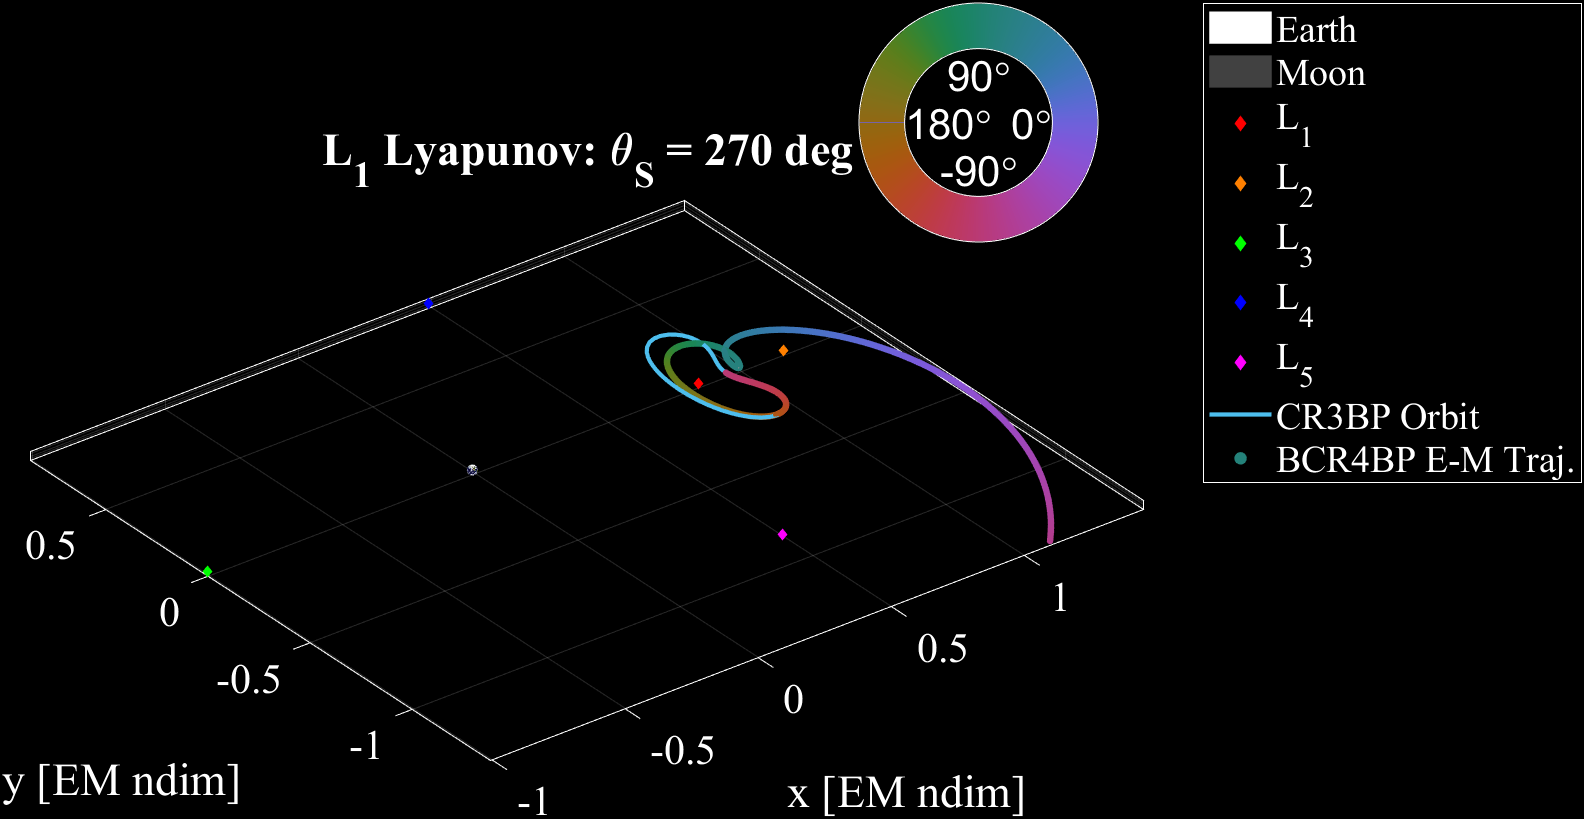
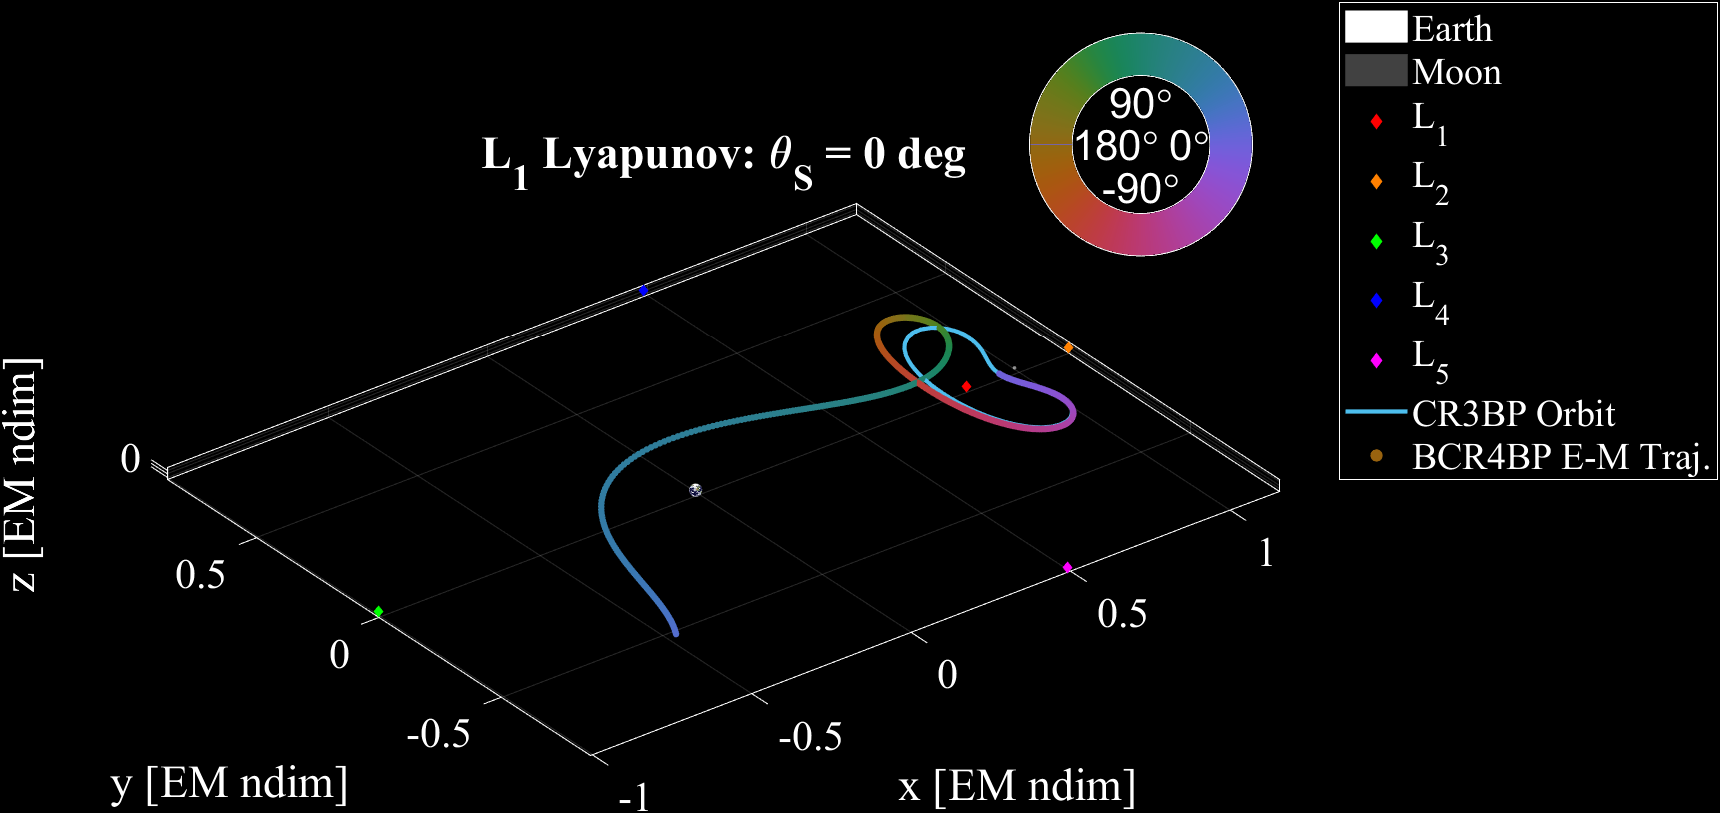
Updated BCR4BPDev

diff --git a/BCR4BPDev.m b/BCR4BPDev.m
@@ -5,84 +5,124 @@
 clear
 load("../PhDScripts/Output/BCR4BPDev.mat")
 
-%% Earth-Moon Data
+%% Body Data
+% Earth
 gmE = 3.9860043543609593E5; % Earth gravitational parameter [km^3/s^2]
 mE = gmE/6.67384E-20; % Earth mass [kg]
 RE = 6.3710083666666660E3; % Earth radius [km]
 
+% Moon
 gmm = 4.9028000661637961E3; % Moon gravitational parameter [km^3/s^2]
 mm = gmm/6.67384E-20; % Moon mass [kg]
 Rm = 1.7374000000000003E3; % Moon radius [km]
 
-mu = gmm/(gmE+gmm); % Mass ratio
-mstar = (gmE+gmm)/6.67384E-20; % Characteristic mass [kg]
-lstar = 3.8474799201129237E5; % Characteristic length [km]
-tstar = sqrt(lstar^3/(gmE+gmm)); % Characteristic time [s]
+% Sun
+gmS = 1.3271244004193930E11; % Sun gravitational parameter [km^3/s^2]
+mS = gmS/6.67384E-20; % Sun mass [kg]
+RS = 6.9600000000000000E5; % Sun radius [km]
+
+% B1
+gmB1 = gmE+gmm; %Barycenter gravitational parameter [km^3/s^2]
+mB1 = gmB1/6.67384E-20; % Barycenter mass [kg]
+
+%% Earth-Moon Data
+mstarEM = (gmE+gmm)/6.67384E-20; % Characteristic mass [kg]
+lstarEM = 3.8474799201129237E5; % Characteristic length [km]
+tstarEM = sqrt(lstarEM^3/(gmE+gmm)); % Characteristic time [s]
+muEM = gmm/(gmE+gmm); % Mass ratio
+
+m_S = mS/mstarEM;
+a_S = 1.4959789401764473E8/lstarEM;
+
+%% Sun-B1 Data
+mstarSB1 = mstarEM*(m_S+1); % Characteristic mass [kg]
+lstarSB1 = lstarEM*a_S; % Characteristic length [km]
+tstarSB1 = sqrt(lstarSB1^3/(gmB1+gmS)); % Characteristic time [s]
+muSB1 = mstarEM/mstarSB1;
+
+a_M = (1-muEM)*lstarEM/lstarSB1;
 
 %% Libration Points
-g1(1) = mu;
+g1 = muEM;
 delg1 = 1;
-i = 0;
 while abs(delg1) > eps
-    f = ((1-mu)/((1-g1(i+1))^2))-(mu/(g1(i+1)^2))-1+mu+g1(i+1);
-    fprime = ((2*(1-mu))/((1-g1(i+1))^3))+((2*mu)/(g1(i+1)^3))+1;
-    g1(i+2) = g1(i+1)-(f/fprime);
-    delg1 = g1(i+2)-g1(i+1);
-    i = i+1;
+    f = ((1-muEM)/((1-g1)^2))-(muEM/(g1^2))-1+muEM+g1;
+    fprime = ((2*(1-muEM))/((1-g1)^3))+((2*muEM)/(g1^3))+1;
+    g1New = g1-(f/fprime);
+    delg1 = g1New-g1;
+    g1 = g1New;
 end
-a1 = 1-mu-g1(end);
+a1EM = 1-muEM-g1;
 
-g2(1) = mu;
+g2 = muEM;
 delg2 = 1;
-i = 0;
 while abs(delg2) > eps
-    f = ((1-mu)/((1+g2(i+1))^2))+(mu/(g2(i+1)^2))-1+mu-g2(i+1);
-    fprime = ((-2*(1-mu))/((1+g2(i+1))^3))-((2*mu)/(g2(i+1)^3))-1;
-    g2(i+2) = g2(i+1)-(f/fprime);
-    delg2 = g2(i+2)-g2(i+1);
-    i = i+1;
+    f = ((1-muEM)/((1+g2)^2))+(muEM/(g2^2))-1+muEM-g2;
+    fprime = ((-2*(1-muEM))/((1+g2)^3))-((2*muEM)/(g2^3))-1;
+    g2New = g2-(f/fprime);
+    delg2 = g2New-g2;
+    g2 = g2New;
 end
-a2 = 1-mu+g2(end);
+a2EM = 1-muEM+g2;
 
-g3(1) = mu;
+g3 = muEM;
 delg3 = 1;
-i = 0;
 while abs(delg3) > eps
-    f = ((1-mu)/(g3(i+1)^2))+(mu/((1+g3(i+1))^2))-mu-g3(i+1);
-    fprime = ((-2*(1-mu))/(g3(i+1)^3))-((2*mu)/((1+g3(i+1))^3))-1;
-    g3(i+2) = g3(i+1)-(f/fprime);
-    delg3 = g3(i+2)-g3(i+1);
-    i = i+1;
+    f = ((1-muEM)/(g3^2))+(muEM/((1+g3)^2))-muEM-g3;
+    fprime = ((-2*(1-muEM))/(g3^3))-((2*muEM)/((1+g3)^3))-1;
+    g3New = g3-(f/fprime);
+    delg3 = g3New-g3;
+    g3 = g3New;
 end
-a3 = -1*mu-g3(end);
+a3EM = -1*muEM-g3;
 
-a45 = 0.5-mu;
+a45EM = 0.5-muEM;
 b4 = sqrt(3)/2;
 b5 = -b4;
 
-%% Plot
+%% Plots
 fig1 = figure("Position", [200 100 1200 750]);
-Earth = plot3DBody("Earth", RE/lstar, [-mu, 0, 0]);
+Earth = plot3DBody("Earth", RE/lstarEM, [-muEM, 0, 0]);
 set(Earth, 'DisplayName', "Earth")
 hold on
-Moon = plot3DBody("Moon", Rm/lstar, [1-mu, 0, 0]);
+Moon = plot3DBody("Moon", Rm/lstarEM, [1-muEM, 0, 0]);
 set(Moon, 'DisplayName', "Moon")
-scatter3(a1, 0, 0, 20, 'r', 'filled', 'd', 'DisplayName', "L_{1}")
-scatter3(a2, 0, 0, 20, [1 0.5 0], 'filled', 'd', 'DisplayName', "L_{2}")
-scatter3(a3, 0, 0, 20, 'g', 'filled', 'd', 'DisplayName', "L_{3}")
-scatter3(a45, b4, 0, 20, 'b', 'filled', 'd', 'DisplayName', "L_{4}")
-scatter3(a45, b5, 0, 20, [1 0 1], 'filled', 'd', 'DisplayName', "L_{5}")
-plot3(trajCR3BP.x, trajCR3BP.y, trajCR3BP.z, 'DisplayName', "CR3BP Orbit")
-scatter3(trajBCR4BP12.x, trajBCR4BP12.y, trajBCR4BP12.z, 10*ones(length(trajBCR4BP12.t), 1), SunAngleColor(trajBCR4BP12.theta4), 'filled', 'DisplayName', 'BCR4BP E-M Traj.')
+scatter3(a1EM, 0, 0, 20, 'r', 'filled', 'd', 'DisplayName', "$L_{1}$")
+scatter3(a2EM, 0, 0, 20, [1 0.5 0], 'filled', 'd', 'DisplayName', "$L_{2}$")
+scatter3(a3EM, 0, 0, 20, 'g', 'filled', 'd', 'DisplayName', "$L_{3}$")
+scatter3(a45EM, b4, 0, 20, 'b', 'filled', 'd', 'DisplayName', "$L_{4}$")
+scatter3(a45EM, b5, 0, 20, [1 0 1], 'filled', 'd', 'DisplayName', "$L_{5}$")
+plot3(orbitCR3BP.x, orbitCR3BP.y, orbitCR3BP.z, 'DisplayName', "CR3BP Orbit")
+scatter3(trajBCR4BP12.x, trajBCR4BP12.y, trajBCR4BP12.z, 10*ones(length(trajBCR4BP12.t), 1), angleColor(trajBCR4BP12.theta4), 'filled', 'DisplayName', 'BCR4BP E-M Traj.')
 axis equal
 grid on
-xlabel("x [EM ndim]")
-ylabel("y [EM ndim]")
-zlabel("z [EM ndim]")
-title("L_{1} Lyapunov: \theta_{S} = "+num2str(rad2deg(trajBCR4BP12.theta4(1)), '%.0f')+" deg")
-leg = legend('Location', 'northeastoutside');
+xlabel("$x$ [EM ndim]", 'Interpreter', 'latex')
+ylabel("$y$ [EM ndim]", 'Interpreter', 'latex')
+zlabel("$z$ [EM ndim]", 'Interpreter', 'latex')
+title("Earth-Moon: $\theta_{S,0}="+num2str(rad2deg(trajBCR4BP12.theta4(1)), '%.0f')+"^{\circ}$", 'Interpreter', 'latex')
+legend('Location', 'northeastoutside', 'Interpreter', 'latex')
 phasemap;
 phasebar('Location', 'northeast', 'Size', 0.25)
 set(gca, 'Color', 'k');
 hold off
-exportgraphics(fig1, 'BCR4BPDev_1.png', 'BackgroundColor', 'k')
+%%% ADD ARROWS!!!!!!!!
+% exportgraphics(fig1, 'BCR4BPDev_1.png', 'BackgroundColor', 'k')
+
+fig2 = figure("Position", [200 100 1200 750]);
+B1 = plot3DBody("Earth", RE/lstarSB1, [1-muSB1, 0, 0]);
+set(B1, 'DisplayName', "$B_{1}$")
+hold on
+fplot(@(t) a_M*sin(t)+1-muSB1, @(t) a_M*cos(t), 'w', 'DisplayName', "Lunar Orbit");
+scatter3(trajBCR4BP41.x, trajBCR4BP41.y, trajBCR4BP41.z, 10*ones(length(trajBCR4BP41.t), 1), angleColor(trajBCR4BP41.theta2), 'filled', 'DisplayName', 'BCR4BP S-$B_{1}$ Traj.')
+axis equal
+grid on
+xlabel("$\underline{x}$ [S$B_{1}$ ndim]", 'Interpreter', 'latex')
+ylabel("$\underline{y}$ [S$B_{1}$ ndim]", 'Interpreter', 'latex')
+zlabel("$\underline{z}$ [S$B_{1}$ ndim]", 'Interpreter', 'latex')
+title("Sun-$B_{1}$: $\theta_{M,0}="+num2str(rad2deg(trajBCR4BP41.theta2(1)), '%.0f')+"^{\circ}$", 'Interpreter', 'latex')
+legend('Location', 'northeastoutside', 'Interpreter', 'latex')
+phasemap;
+phasebar('Location', 'northeast', 'Size', 0.25)
+set(gca, 'Color', 'k');
+hold off
+% exportgraphics(fig2, 'BCR4BPDev_2.png', 'BackgroundColor', 'k')

diff --git a/angleColor.m b/angleColor.m
@@ -1,8 +1,8 @@
-%%% SunAngleColor
+%%% angleColor
 %%% Jonathan Richmond
 %%% C: 19 February 2025
 
-function [colors] = SunAngleColor(values)
+function [colors] = angleColor(values)
 
 valuesWrapped = phasewrap(values);
 colorMap = phasemap(1001);
